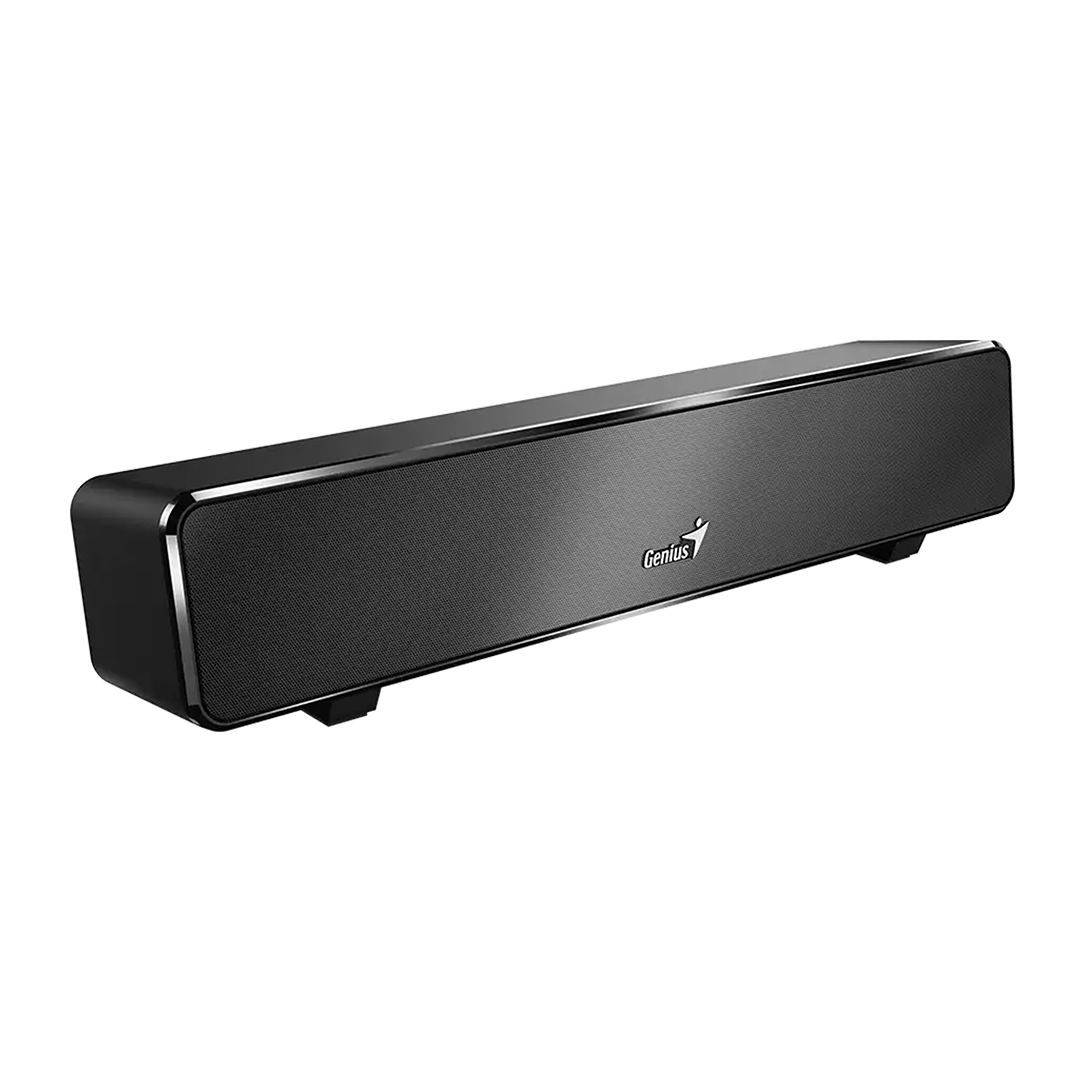
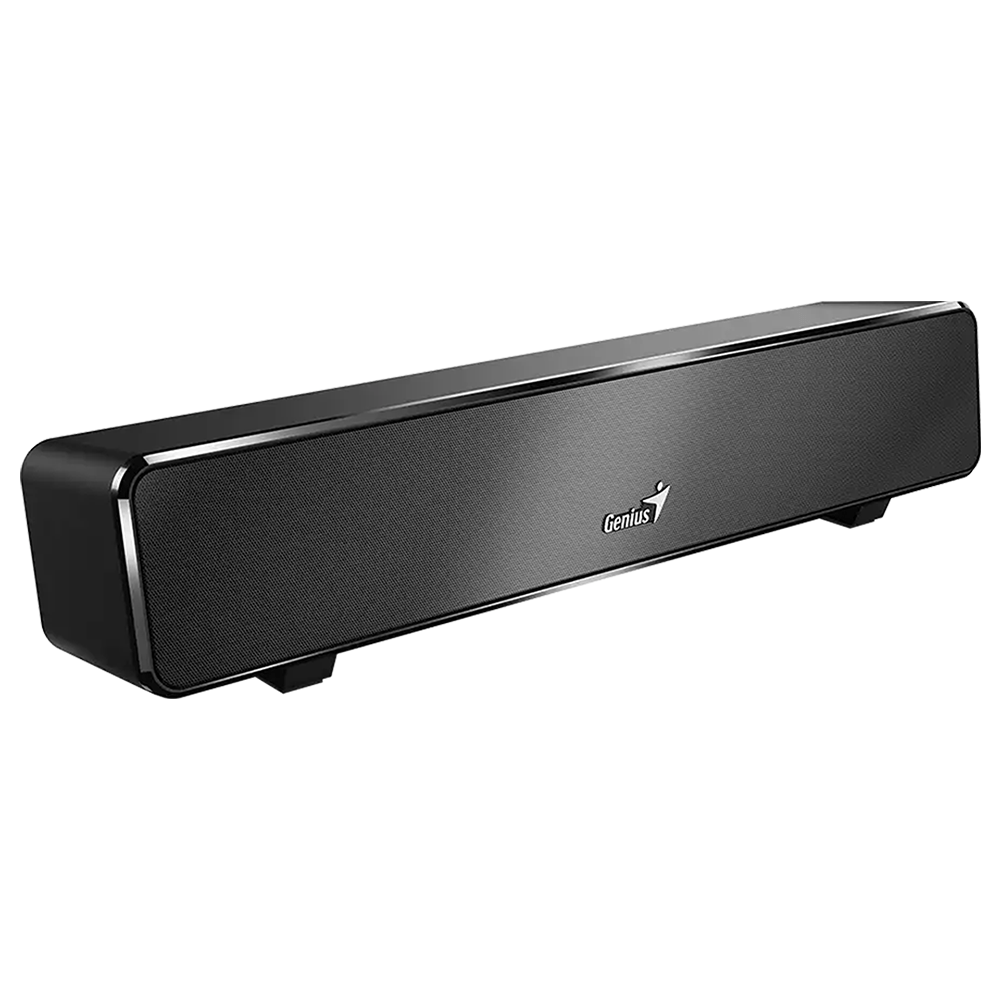
se actualiza fotos del producto codigo 3095

Changed region(s): [[0.0, 0.279, 0.992, 0.713]]

diff --git a/index.html b/index.html
@@ -191,12 +191,6 @@
   
     text-shadow: 0 0 15px rgba(255, 255, 255, 1); /* Aumenta la intensidad de la sombra negra */
 }
-html, body {
-  background-color: #154e80;
-  margin: 0;
-  padding: 0;
-}
-
 
 </style>
 
